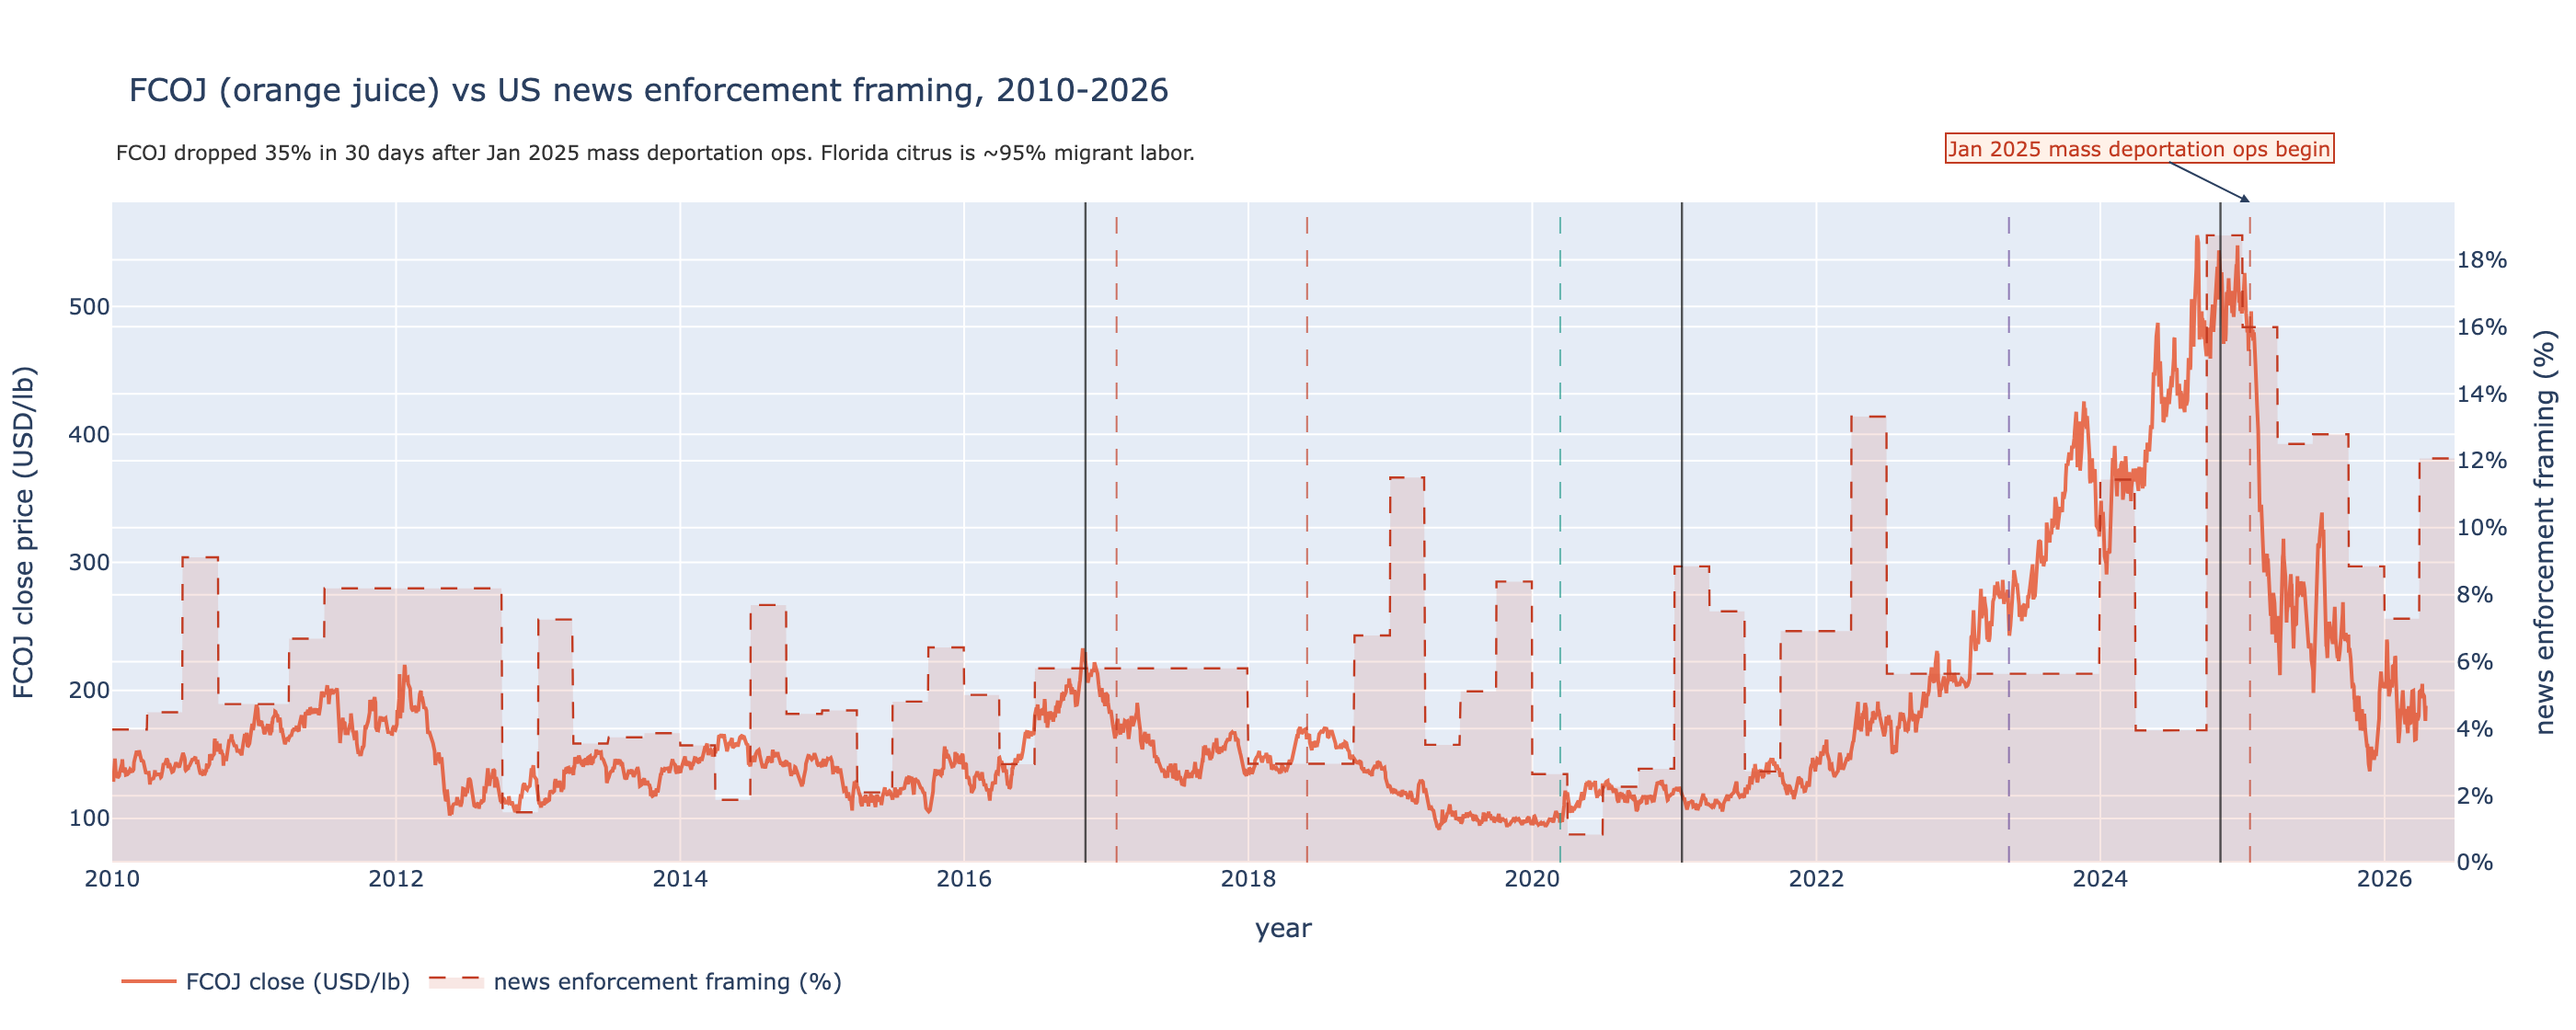
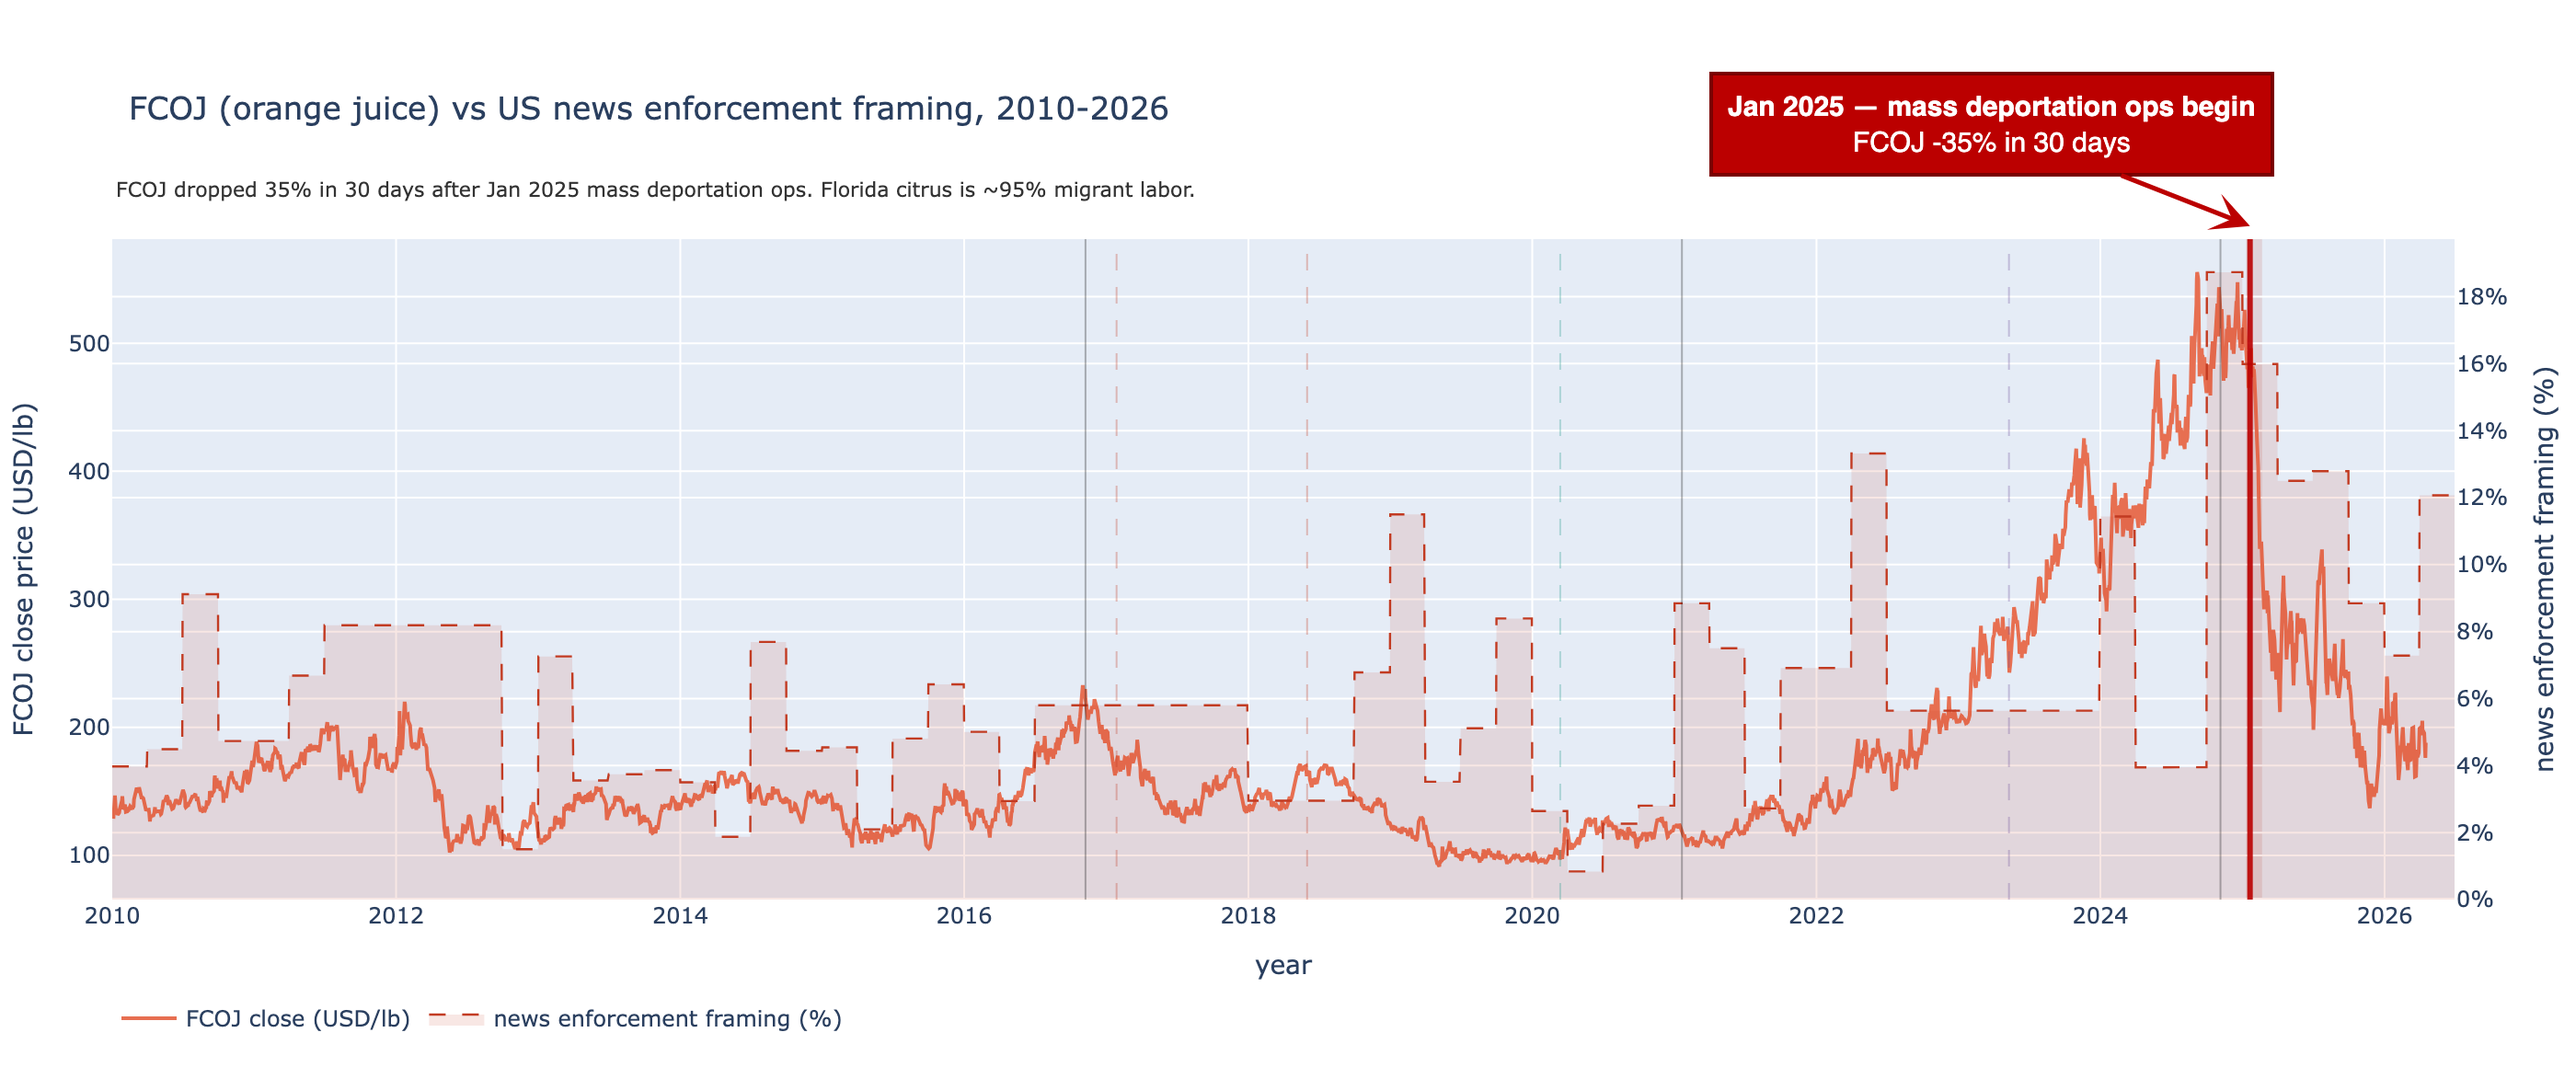
fcoj chart: beef up the jan 2025 callout so the peak event actually reads

diff --git a/viz/plotly_charts.py b/viz/plotly_charts.py
@@ -882,25 +882,40 @@ def fcoj_deep_dive(fcoj_daily: pd.DataFrame, enf_daily: pd.Series, events: list,
             hovertemplate="%{x|%Y-%m-%d} — enforcement framing: %{y:.1f}%<extra></extra>",
         ))
 
-    # overlay event markers
+    # overlay event markers (other events dimmed so jan 2025 pops)
+    jan25 = datetime(2025, 1, 20)
     for ev in events:
         d = datetime.strptime(str(ev["date"])[:10], "%Y-%m-%d")
+        if d == jan25:
+            continue  # drawn separately below with heavy emphasis
         cat = ev.get("category", "policy")
         fig.add_vline(
             x=d, line_color=CATEGORY_COLORS.get(cat, "#555"),
-            line_width=1.2 if cat == "election" else 1.0,
+            line_width=1.0,
             line_dash=CATEGORY_DASH.get(cat, "dash"),
-            opacity=0.7,
+            opacity=0.3,
         )
 
-    # explicit callout on jan 2025
-    jan25 = datetime(2025, 1, 20)
+    # jan 2025 gets a fat scarlet band + solid vline so the eye lands there first
+    fig.add_vrect(
+        x0=datetime(2025, 1, 10), x1=datetime(2025, 2, 20),
+        fillcolor="#c23b22", opacity=0.14, line_width=0, layer="below",
+    )
+    fig.add_vline(
+        x=jan25, line_color="#bb0000", line_width=3, opacity=0.9,
+    )
+
+    # big, unmissable callout in scarlet fill with white bold text
     fig.add_annotation(
-        x=jan25, y=1.0, yref="paper",
-        text="Jan 2025 mass deportation ops begin",
-        showarrow=True, arrowhead=2, ax=-60, ay=-30,
-        font=dict(size=11, color="#c23b22"), bgcolor="rgba(255,240,230,0.9)",
-        bordercolor="#c23b22", borderwidth=1,
+        x=jan25, y=1.02, yref="paper",
+        text="<b>Jan 2025 — mass deportation ops begin</b><br>FCOJ -35% in 30 days",
+        showarrow=True, arrowhead=3, arrowsize=1.4, arrowwidth=2.5,
+        arrowcolor="#bb0000",
+        ax=-140, ay=-55,
+        align="center",
+        font=dict(size=15, color="#ffffff", family="DM Sans, Helvetica, sans-serif"),
+        bgcolor="#bb0000", bordercolor="#7a0000", borderwidth=2,
+        borderpad=8,
     )
 
     fig.update_layout(

diff --git a/scripts/export_assignment_charts.py b/scripts/export_assignment_charts.py
@@ -76,8 +76,8 @@ def export_fcoj_deep_dive() -> Path:
         text="FCOJ dropped 35% in 30 days after Jan 2025 mass deportation ops. Florida citrus is ~95% migrant labor.",
         font=dict(size=11, color="#333"),
     )
-    fig.update_layout(margin=dict(t=110, b=40, l=60, r=60))
-    return _png(fig, OUTPUT_DIR / "assignment_fcoj_deep_dive.png", width=1400, height=560)
+    fig.update_layout(margin=dict(t=130, b=40, l=60, r=60))
+    return _png(fig, OUTPUT_DIR / "assignment_fcoj_deep_dive.png", width=1400, height=580)
 
 
 def export_sensitivity_scatter() -> Path:
